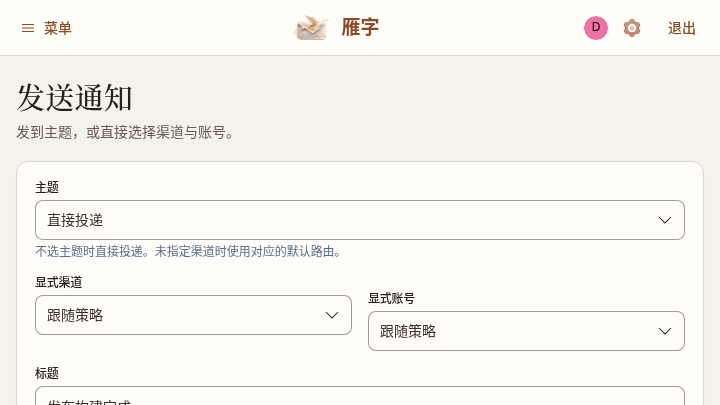
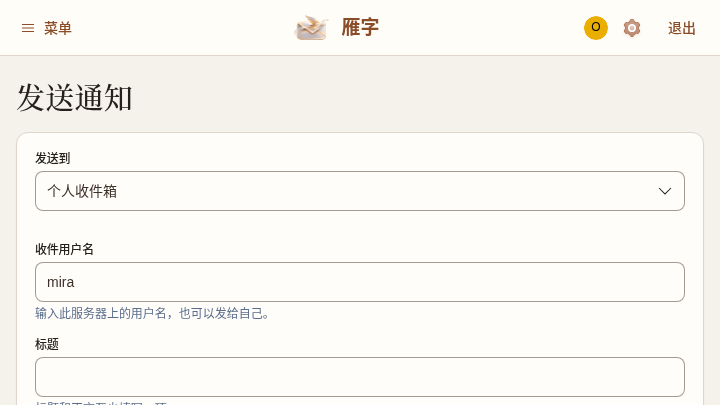
Show personal inbox delivery and mobile sending in the store gallery

diff --git a/README.md b/README.md
@@ -12,12 +12,14 @@
 
 ## 界面截图
 
-截图采集自运行中的雁字，使用演示数据。移动端截图使用 720 × 405 的横屏响应式布局。
+截图采集自运行中的雁字，使用演示数据。移动端展示横屏管理和竖屏发送。
 
 ![桌面端投递总览](screenshots/desktop-overview.png)
 
 <details>
-<summary>桌面端渠道设置</summary>
+<summary>桌面端投递详情和渠道设置</summary>
+
+![个人收件箱的投递回执](screenshots/desktop-inbox-receipt.png)
 
 ![桌面端渠道设置](screenshots/desktop-plugins.png)
 
@@ -30,7 +32,7 @@
 
 ![移动端渠道插件](screenshots/mobile-channels.png)
 
-![移动端发送通知](screenshots/mobile-send.png)
+![移动端向个人收件箱发送消息](screenshots/mobile-send-portrait.png)
 
 </details>
 
